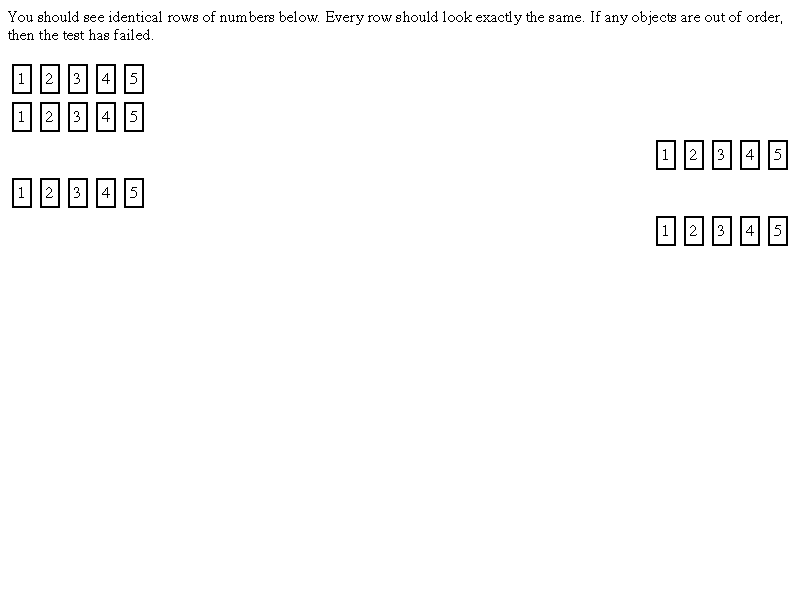
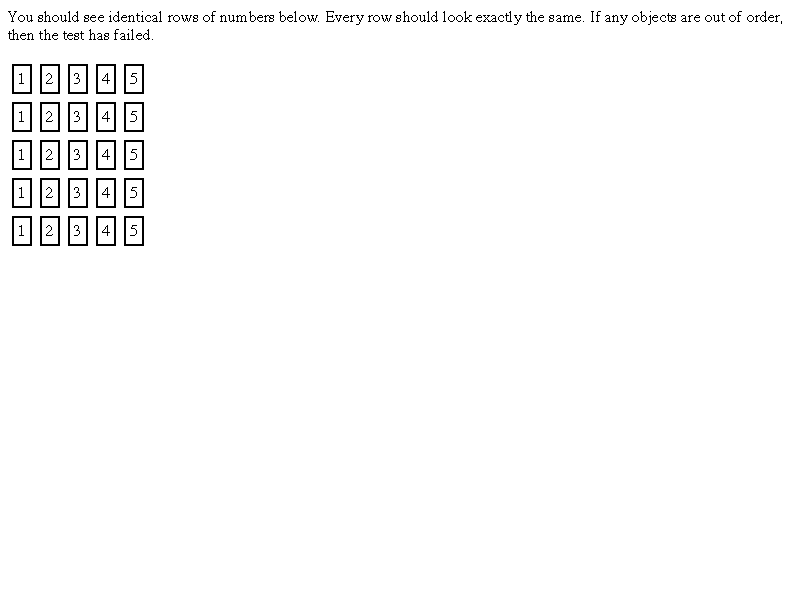
css-flexbox: special cases for deprecated rtl horizontal box
Two special cases that carry over from the old code:
. LayoutDeprecatedFlexibleBox always started layout at an origin of 0,
  even when rtl. This gives the same behavior.
. End is treated as start when rtl.

BUG=1014884
TEST=fast/deprecated-flexbox/017.html

Commit-Queue: Scott Violet <sky@chromium.org>
Cr-Original-Commit-Position: refs/heads/master@{#708446}
Cr-Mirrored-From: https://chromium.googlesource.com/chromium/src
Cr-Mirrored-Commit: b225359b50c4af3f691822e82f517ddbad5d48d5

diff --git a/blink/renderer/core/layout/flexible_box_algorithm.cc b/blink/renderer/core/layout/flexible_box_algorithm.cc
@@ -441,6 +441,11 @@ void FlexLine::ComputeLineItemsPosition(LayoutUnit main_axis_offset,
   bool should_flip_main_axis =
       !algorithm->StyleRef().ResolvedIsColumnFlexDirection() &&
       !algorithm->IsLeftToRightFlow();
+  LayoutUnit width_for_rtl = container_logical_width;
+  // -webkit-box always started layout at an origin of 0, regardless of
+  // direction.
+  if (should_flip_main_axis && algorithm->StyleRef().IsDeprecatedWebkitBox())
+    width_for_rtl = sum_hypothetical_main_size;
   for (size_t i = 0; i < line_items.size(); ++i) {
     FlexItem& flex_item = line_items[i];
 
@@ -473,11 +478,11 @@ void FlexLine::ComputeLineItemsPosition(LayoutUnit main_axis_offset,
     // In an RTL column situation, this will apply the margin-right/margin-end
     // on the left. This will be fixed later in
     // LayoutFlexibleBox::FlipForRightToLeftColumn.
-    flex_item.desired_location = LayoutPoint(
-        should_flip_main_axis
-            ? container_logical_width - main_axis_offset - child_main_extent
-            : main_axis_offset,
-        cross_axis_offset + flex_item.FlowAwareMarginBefore());
+    flex_item.desired_location =
+        LayoutPoint(should_flip_main_axis
+                        ? width_for_rtl - main_axis_offset - child_main_extent
+                        : main_axis_offset,
+                    cross_axis_offset + flex_item.FlowAwareMarginBefore());
     main_axis_offset += child_main_extent + flex_item.FlowAwareMarginEnd();
 
     if (i != line_items.size() - 1) {
@@ -697,10 +702,19 @@ TransformedWritingMode FlexLayoutAlgorithm::GetTransformedWritingMode(
 StyleContentAlignmentData FlexLayoutAlgorithm::ResolvedJustifyContent(
     const ComputedStyle& style) {
   const bool is_webkit_box = style.IsDeprecatedWebkitBox();
-  ContentPosition position = is_webkit_box
-                                 ? BoxPackToContentPosition(style.BoxPack())
-                                 : style.ResolvedJustifyContentPosition(
-                                       ContentAlignmentNormalBehavior());
+  ContentPosition position;
+  if (is_webkit_box) {
+    position = BoxPackToContentPosition(style.BoxPack());
+    // -webkit-box treats end as start for horizontal rtl.
+    if (position == ContentPosition::kFlexEnd &&
+        !style.ResolvedIsColumnReverseFlexDirection() &&
+        !style.IsLeftToRightDirection()) {
+      position = ContentPosition::kFlexStart;
+    }
+  } else {
+    position =
+        style.ResolvedJustifyContentPosition(ContentAlignmentNormalBehavior());
+  }
   ContentDistributionType distribution =
       is_webkit_box ? BoxPackToContentDistribution(style.BoxPack())
                     : style.ResolvedJustifyContentDistribution(
